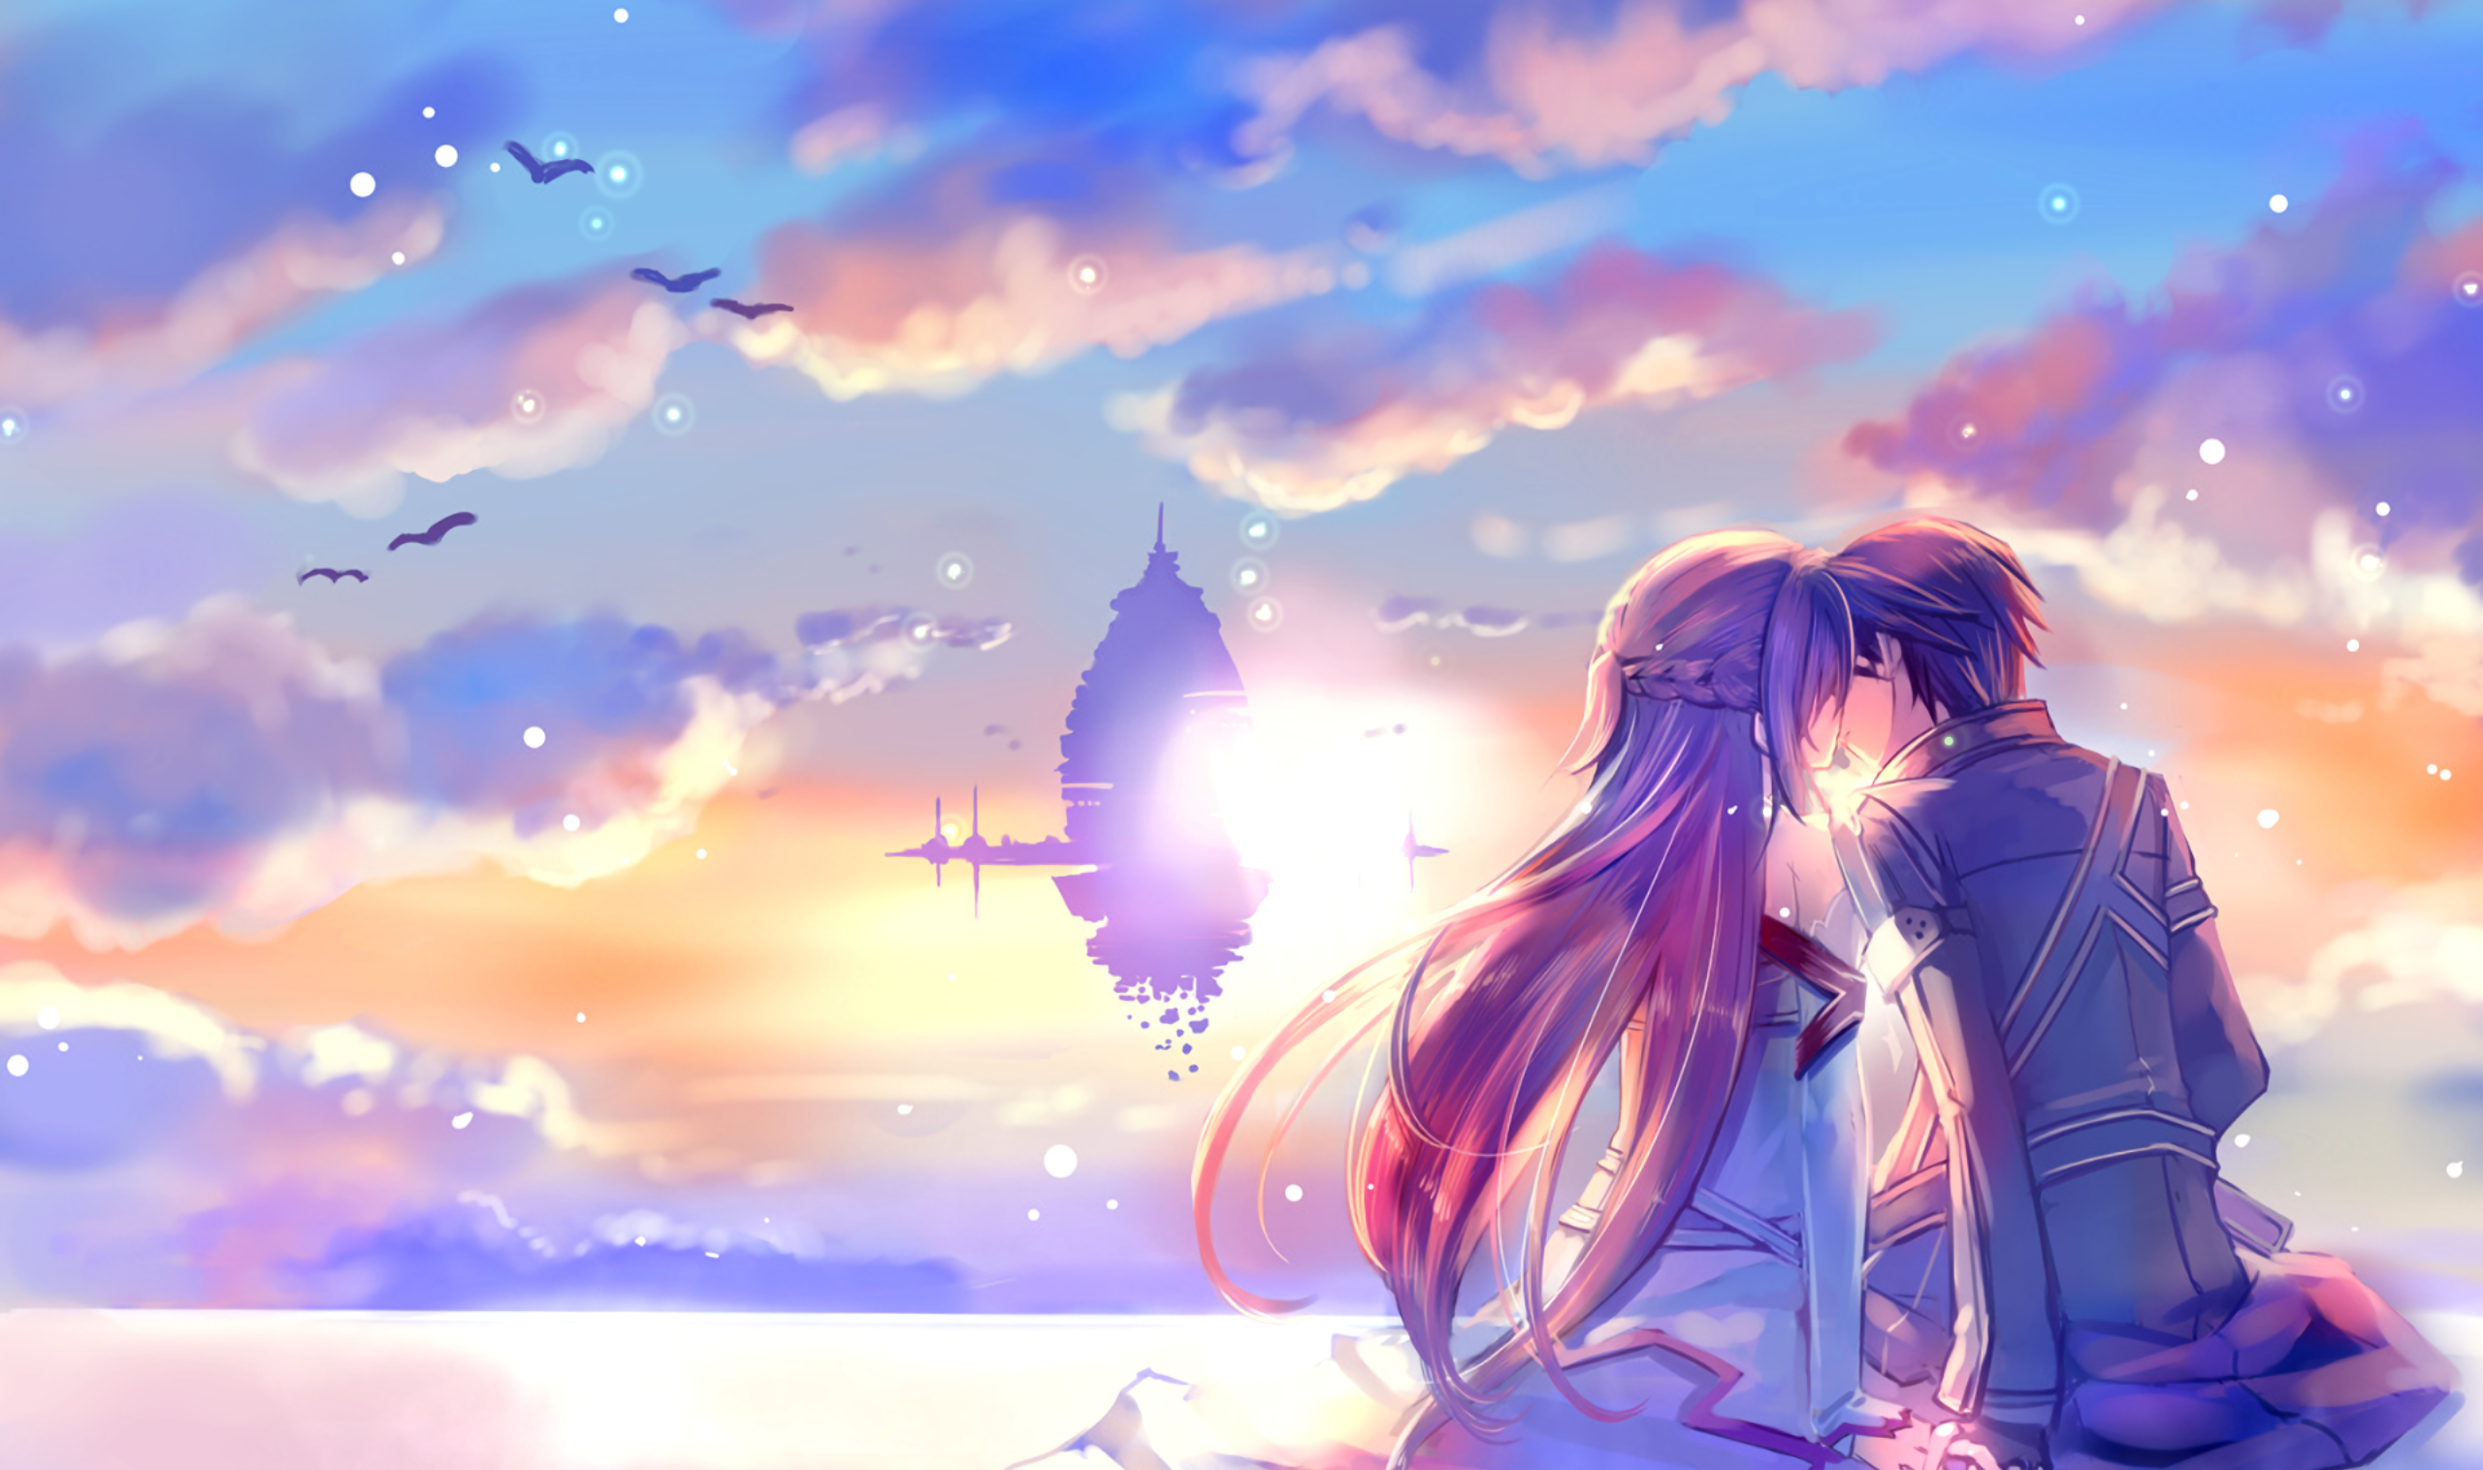
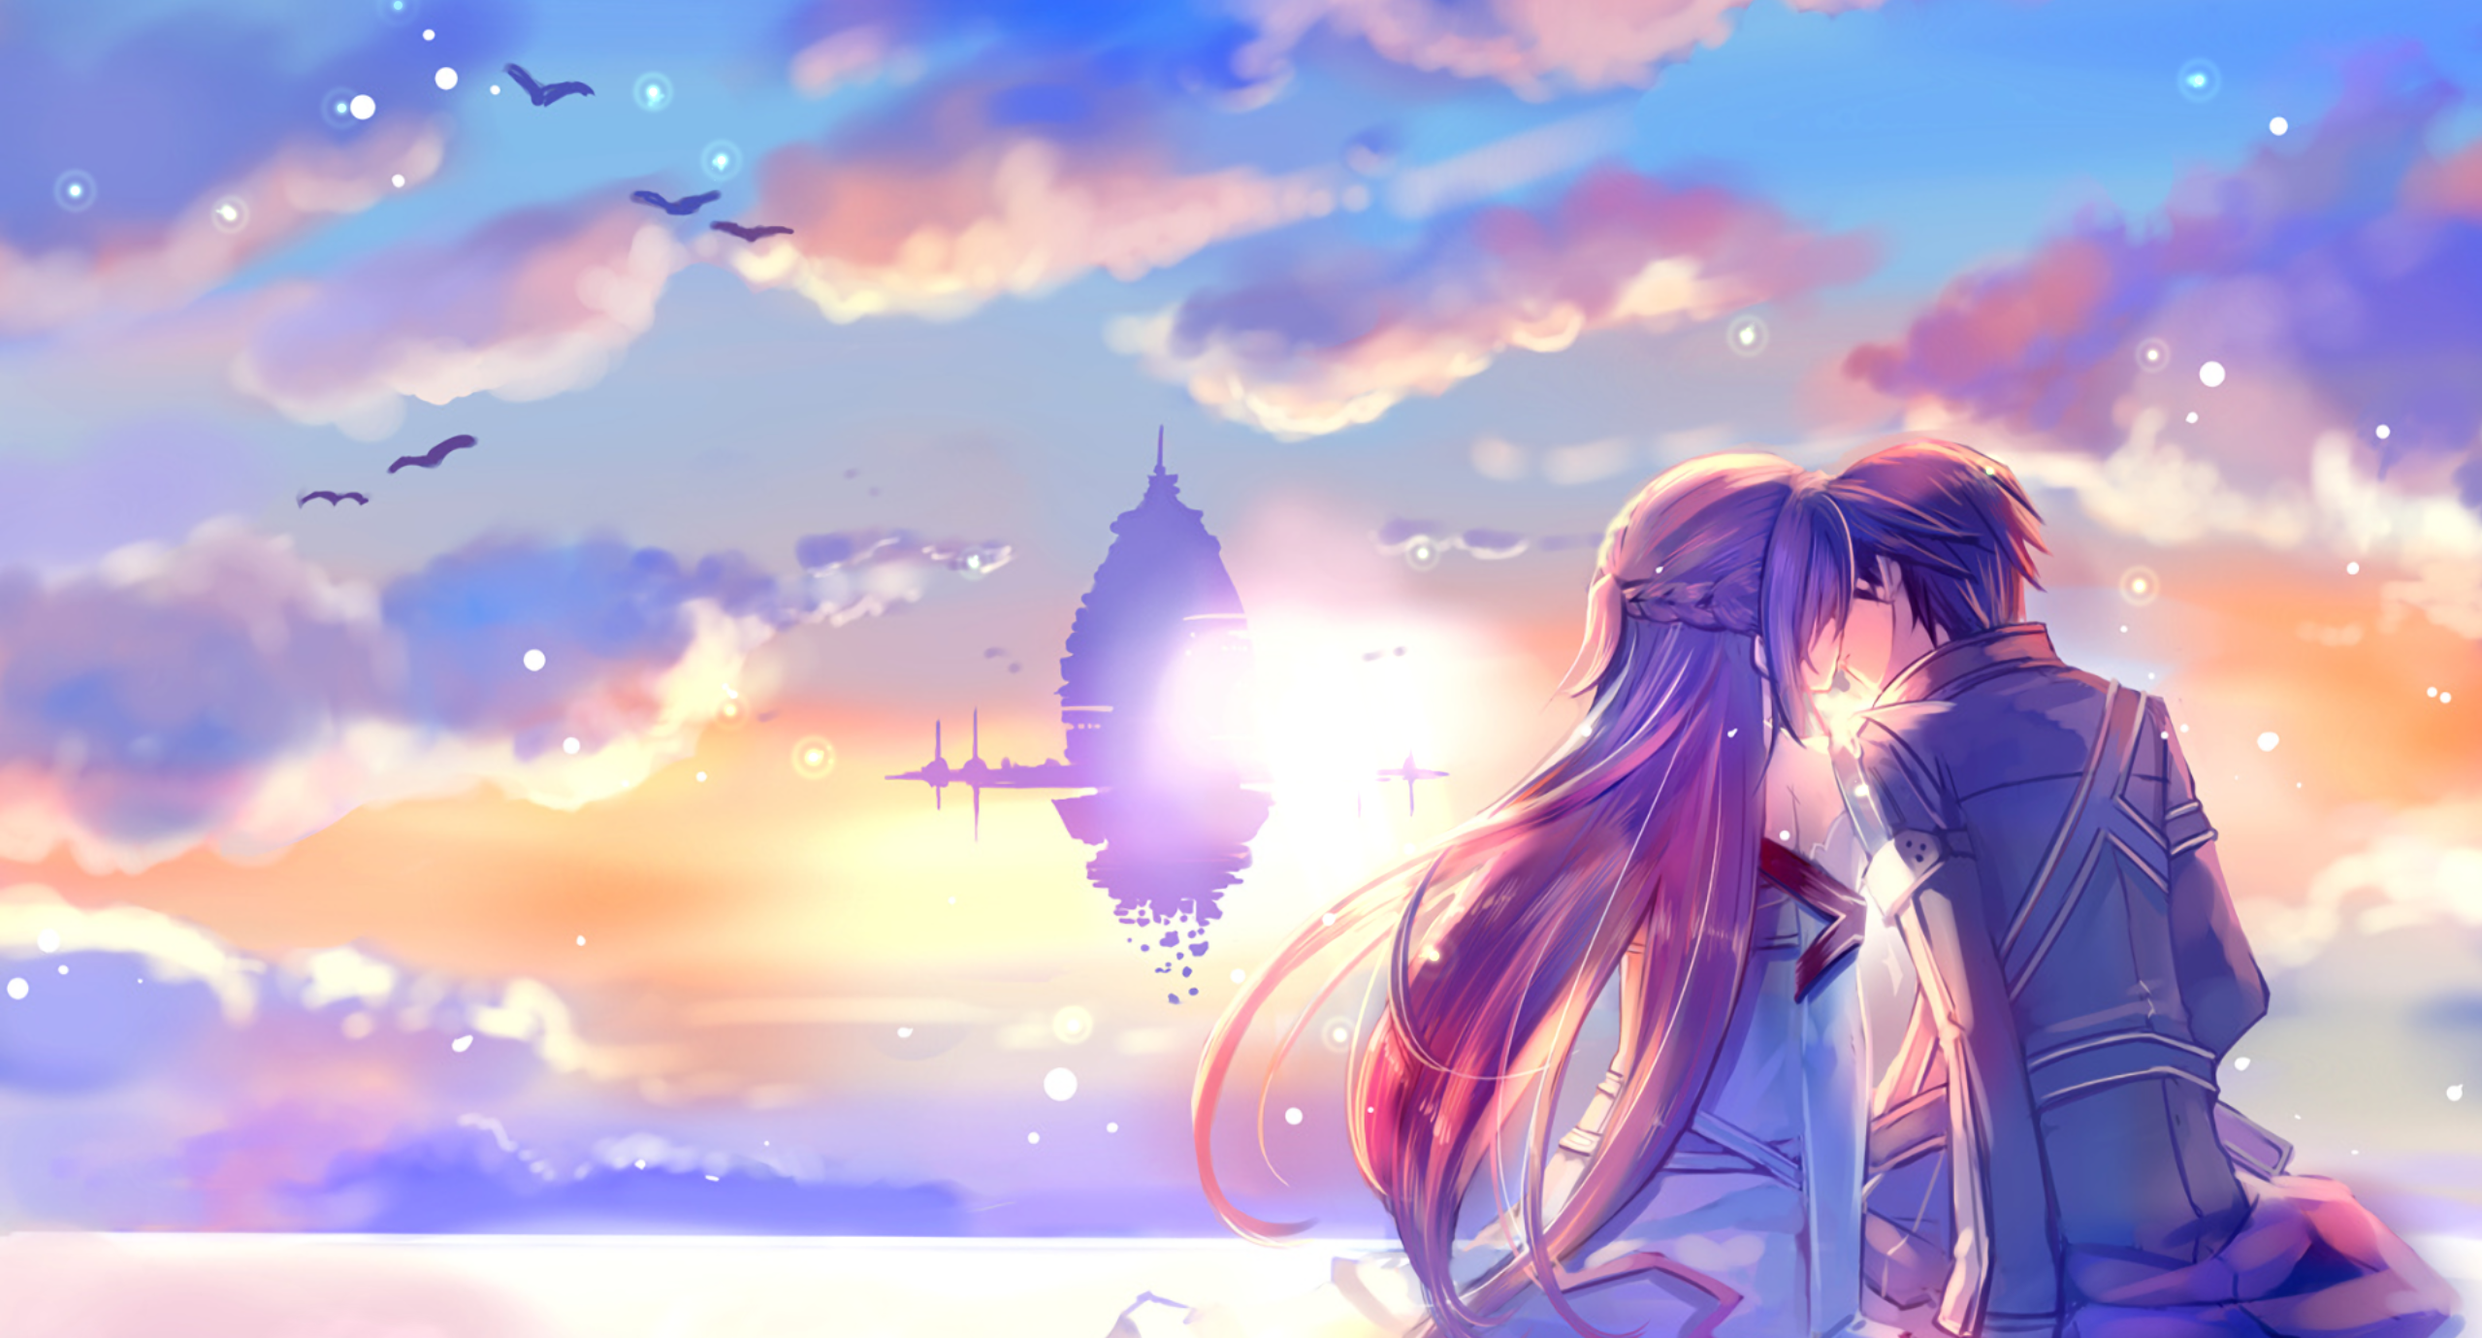
fix：修改Info

diff --git a/src/config.ts b/src/config.ts
@@ -38,7 +38,8 @@ export const siteConfig: SiteConfig = {
 	background: {
 		enable: true, // Enable background image
 		src: [ // 背景图数组，页面加载时随机选择一张
-			"/images/bgs/KA.png"
+			{ src: "/images/bgs/KA.png", brightness: 0.9 },
+			{ src: "/images/bgs/Asuna01.png", brightness: 0.7 }
 		],
 		position: "center", // Background position: 'top', 'center', 'bottom'
 		size: "cover", // Background size: 'cover', 'contain', 'auto'
@@ -60,10 +61,10 @@ export const siteConfig: SiteConfig = {
 	],
 	apps: [
 		{
-			name: "提示词优化",
-			url: "https://prompt.micostar.cc",
-			image: "/favicon/prompts.webp",
-			description: "AI 提示词一键优化工具",
+			name: "LifeGame",
+			url: "https://github.com/Charles-Cliff/LifeGame",
+			image: "/images/apps/LifeGame.png",
+			description: "一款将生活管理游戏化的 Android 应用",
 			external: true,
 		},
 	],

diff --git a/src/types/config.ts b/src/types/config.ts
@@ -7,6 +7,11 @@ export type AppItem = {
 };
 import type { AUTO_MODE, DARK_MODE, LIGHT_MODE } from "@constants/constants";
 
+export type BackgroundImage = {
+	src: string;
+	brightness?: number; // 亮度值 (0-1)
+};
+
 export type SiteConfig = {
 	title: string;
 	subtitle: string;
@@ -32,7 +37,7 @@ export type SiteConfig = {
 	};
 	background: {
 		enable: boolean;
-		src: string | string[]; // 单张图片或图片数组（随机选择）
+		src: string | string[] | BackgroundImage | BackgroundImage[]; // 单张图片、图片数组或带亮度的图片对象/数组
 		position?: "top" | "center" | "bottom";
 		size?: "cover" | "contain" | "auto";
 		repeat?: "no-repeat" | "repeat" | "repeat-x" | "repeat-y";

diff --git a/src/content/spec/about-privacy.md b/src/content/spec/about-privacy.md
@@ -1,6 +1,6 @@
 # 关于&隐私政策
 
-最后更新日期：2025年12月
+最后更新日期：2026年2月
 
 ## 概述
 
@@ -12,7 +12,7 @@
 
 ### 当前版本
 
-::github{repo="Besty0728/fuwari"}
+::github{repo="Charles-Cliff/BlogV2"}
 
 ## 网站性质
 
@@ -46,12 +46,6 @@
 - 用途：网站性能分析、用户行为分析
 - 隐私政策：[Google 隐私政策](https://policies.google.com/privacy)
 
-**Umami 分析**
-- 可能收集的信息：页面浏览量、访问来源、设备类型（匿名化处理）
-- 用途：网站流量统计和分析
-- 特点：注重隐私保护，不使用 Cookie，数据匿名化处理
-- 实时查看：您可以在网站导航栏中实时查看站点流量统计
-- Cookie 同意：**无需同意**，Umami 不使用 Cookie，始终运行
 
 ### 广告服务
 

diff --git a/src/content/spec/friends.md b/src/content/spec/friends.md
@@ -11,9 +11,9 @@
 
 ```json
 {
-  "name": "Cliff Blog",
-  "avatar": "https://img.micostar.cc/images/avatar.webp",
-  "introduction": "爱我所爱，我们是彼此永远的动力",
+  "name": "384400's Blog",
+  "avatar": "https://www.gzhblog.cn/images/avatar.webp",
+  "introduction": "兴趣使然的独立开发者",
   "url": "https://www.gzhblog.cn",
   "friendsPage": "https://www.gzhblog.cn/friends"
 }

diff --git a/src/content/posts/2026-03/2026-03-30-ue5-mass-cluster-system.md b/src/content/posts/2026-03/2026-03-30-ue5-mass-cluster-system.md
@@ -1,9 +1,9 @@
 ---
 title: UE5 Mass集群系统详解 — 大规模人群模拟解决方案
 published: 2026-03-30T12:31:00
-updated: 2026-03-30T20:33:05
+updated: 2026-03-30T21:09:49
 description: 深入解析Unreal Engine 5的Mass集群系统，从架构设计到实战应用，帮你快速掌握大规模人群模拟技术
-image: ""
+image: /images/2026-03/Mass.jpg
 tags:
   - Unreal
   - Mass

diff --git a/src/content/posts/2026-03/2026-03-30-ue5-gas-system.md b/src/content/posts/2026-03/2026-03-30-ue5-gas-system.md
@@ -1,9 +1,9 @@
 ---
 title: UE5 Gameplay Ability System (GAS) 完全指南
 published: 2026-03-30T17:59:00
-updated: 2026-03-30T20:33:04
+updated: 2026-03-30T21:09:49
 description: 深入解析Unreal Engines 5的Gameplay Ability System，从核心概念到实战应用，帮你快速掌握技能系统开发
-image: ""
+image: '/images/2026-03/gas-cover.jpg'
 tags:
   - Unreal
   - GAS
